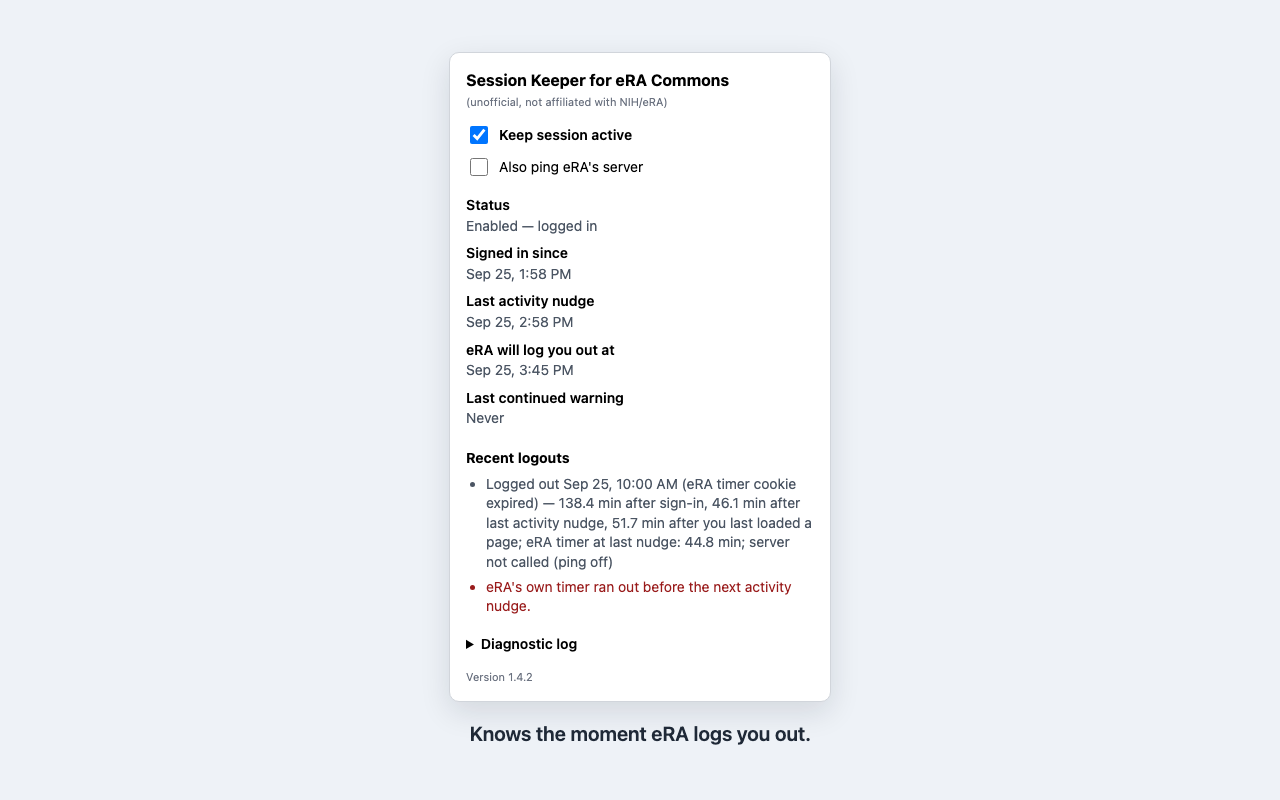
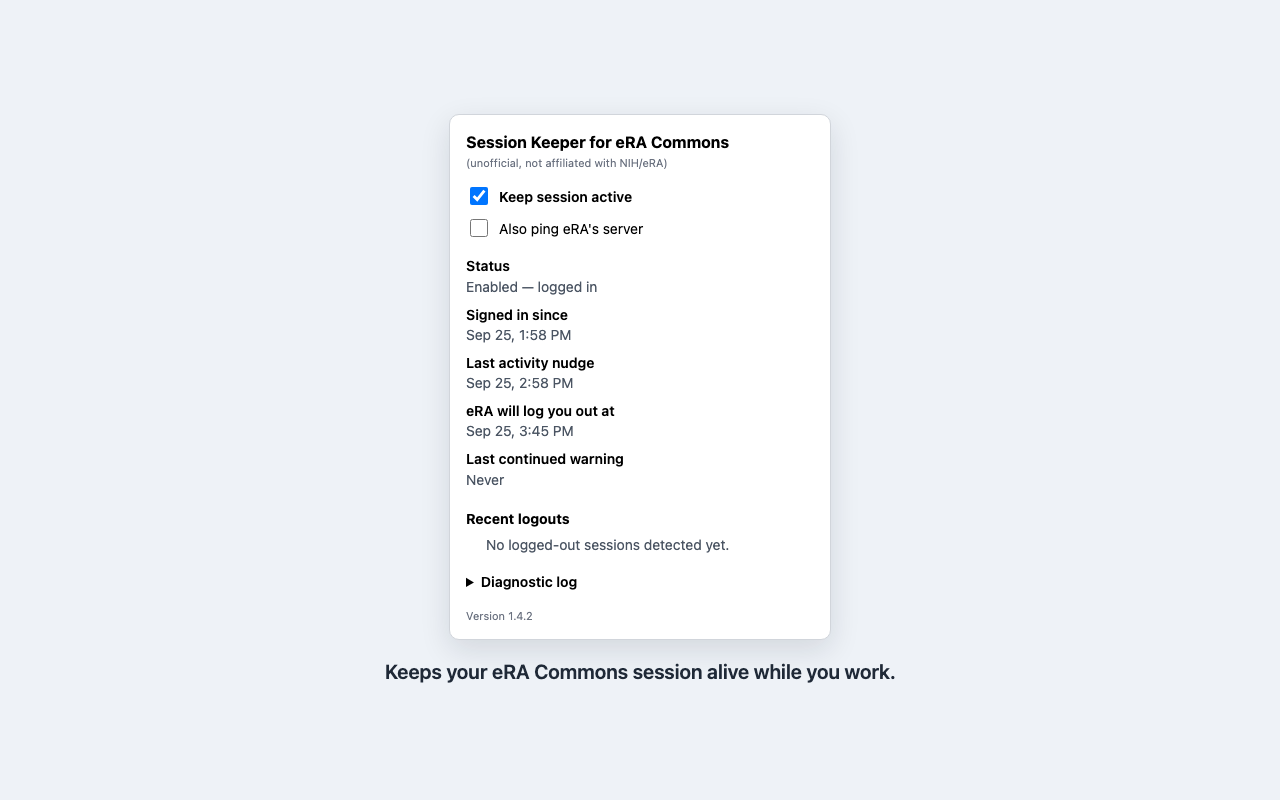
Add GitHub Pages site, fill in privacy policy contact, fix screenshot 1
- store/privacy-policy.html: replace maintainer/contact placeholders
- docs/privacy-policy.html: canonical hosted copy, identical to store's
- docs/index.html + docs/.nojekyll: GitHub Pages landing page
- store/listing.md, store/SUBMIT.md: point privacy policy URL at the
  GitHub Pages link, drop remaining placeholder text
- store/screenshot-harness.html: healthy sample state (no logout
  record) instead of a red logout warning
- store/screenshots/01-status.png, 02-diagnostic-log.png: re-rendered
  at 1280x800 against the healthy sample state
- README.md: link to the hosted privacy policy

Changed region(s): [[0.3125, 0.0938, 0.6875, 0.875], [0.375, 0.9062, 0.625, 0.9375]]

diff --git a/docs/index.html b/docs/index.html
@@ -1,0 +1,62 @@
+<!doctype html>
+<html lang="en">
+  <head>
+    <meta charset="utf-8">
+    <meta name="viewport" content="width=device-width, initial-scale=1">
+    <title>Session Keeper for eRA Commons (unofficial)</title>
+    <style>
+      :root { color-scheme: light; }
+      body {
+        margin: 0;
+        padding: 24px 16px 64px;
+        max-width: 680px;
+        margin-left: auto;
+        margin-right: auto;
+        font: 16px/1.55 -apple-system, BlinkMacSystemFont, "Segoe UI", Roboto, Helvetica, Arial, sans-serif;
+        color: #1f2937;
+        background: #ffffff;
+      }
+      h1 { font-size: 22px; line-height: 1.3; margin: 0 0 16px; }
+      p { margin: 0 0 12px; }
+      .notice {
+        background: #fef3c7;
+        border: 1px solid #f59e0b;
+        border-radius: 8px;
+        padding: 10px 14px;
+        font-size: 14px;
+        margin: 0 0 24px;
+      }
+      a { color: #2563eb; }
+      footer { margin-top: 40px; color: #6b7280; font-size: 13px; }
+      @media (max-width: 480px) {
+        body { padding: 16px 12px 48px; }
+        h1 { font-size: 20px; }
+      }
+    </style>
+  </head>
+  <body>
+    <h1>Session Keeper for eRA Commons (unofficial)</h1>
+
+    <p>
+      Session Keeper for eRA Commons is a small Chrome extension that keeps
+      your own, already-signed-in NIH eRA Commons session from timing out
+      while you're reading instead of clicking. It sends eRA's own page a
+      harmless activity signal every few minutes and presses eRA's own
+      "Continue" button if a timeout warning appears.
+    </p>
+
+    <p class="notice">
+      <strong>Not affiliated with NIH or eRA.</strong> This is an
+      independent, unofficial project.
+    </p>
+
+    <p>
+      Read the <a href="privacy-policy.html">privacy policy</a>.
+    </p>
+
+    <footer>
+      Session Keeper for eRA Commons (unofficial) — an independent project,
+      not affiliated with NIH or eRA.
+    </footer>
+  </body>
+</html>

diff --git a/store/screenshot-harness.html b/store/screenshot-harness.html
@@ -111,18 +111,7 @@
         eraLogoutAt: now + 45 * 60 * 1000,
         lastAutoClick: null,
         serverWarning: null,
-        logoutRecords: [
-          {
-            loggedOutDetectedAt: now - 5 * 60 * 60 * 1000,
-            reason: "eRA timer cookie expired",
-            minutesSinceSignIn: 138.4,
-            minutesSinceLastNudge: 46.1,
-            minutesSinceLastPageLoad: 51.7,
-            minutesLeftAtLastNudge: 44.8,
-            pingServer: false,
-            lastServerPing: "server not called (ping off)"
-          }
-        ],
+        logoutRecords: [],
         diagnosticLog: [
           { at: now - 20 * 60 * 1000, type: "page-load", path: "/commons/public/index.jsp", managerPresent: true, minsLeft: 45.0 },
           { at: now - 16 * 60 * 1000, type: "nudge", path: "/commonsplus/home.era", managerPresent: true, minsLeftBefore: 41.0, minsLeftAfter: 45.0, pingServer: false },

diff --git a/store/listing.md b/store/listing.md
@@ -2,8 +2,6 @@
 
 Everything below is written to be pasted directly into the fields of the
 Chrome Web Store developer dashboard (chrome.google.com/webstore/devconsole).
-Nothing here needs editing except the privacy policy URL placeholder near
-the bottom, once that page is hosted somewhere.
 
 ## Item name
 
@@ -195,19 +193,9 @@ data is read, stored, or handled anywhere in the extension.
 ## Privacy policy URL
 
 ```
-<PASTE THE HOSTED URL OF store/privacy-policy.html HERE>
+https://jgassens.github.io/era-commons-keepalive/privacy-policy.html
 ```
 
-`store/privacy-policy.html` is a ready-to-host, self-contained page.
-Two easy ways to put it at a public URL:
-
-1. **GitHub Pages** — push this repo (or just that one file) to a GitHub
-   repository, turn on Pages for it in the repo's Settings → Pages, and
-   use the `https://<username>.github.io/<repo>/privacy-policy.html` URL
-   it gives you.
-2. **Google Sites** — create a free Google Site, add the text from
-   `store/privacy-policy.html` as a page (Google Sites' editor accepts
-   embedded HTML/plain text), publish it, and use that page's URL.
-
-Paste whichever URL you end up with into the dashboard's **Privacy policy**
-field and into the placeholder above for your own records.
+This is the GitHub Pages URL for `docs/privacy-policy.html`, hosted from
+this repository's `main` branch `/docs` folder. Paste this URL into the
+dashboard's **Privacy policy** field.

diff --git a/store/SUBMIT.md b/store/SUBMIT.md
@@ -34,9 +34,9 @@ for you in `store/listing.md`.
    - Language
 
 6. **Set up the Privacy tab:**
-   - Host `store/privacy-policy.html` somewhere public (GitHub Pages or a
-     Google Site both work — `store/listing.md` has step-by-step notes),
-     then paste that page's URL into the **Privacy policy URL** field.
+   - Paste `https://jgassens.github.io/era-commons-keepalive/privacy-policy.html`
+     (the GitHub Pages URL for `docs/privacy-policy.html`) into the
+     **Privacy policy URL** field.
    - Under **Permission justifications**, paste in the paragraph for each
      permission from `store/listing.md` (storage, alarms, notifications,
      scripting, cookies, and the `https://*.era.nih.gov/*` host permission).

diff --git a/README.md b/README.md
@@ -10,6 +10,8 @@ When eRA logs you out — its own timer ran out, or you pressed **Logout** — e
 
 It never reads, saves, fills, or sends passwords, two-factor codes, or any other credentials. It never tries to log you in.
 
+Privacy policy: https://jgassens.github.io/era-commons-keepalive/privacy-policy.html
+
 ## Install it in Chrome
 
 1. Download or open this extension folder on your computer.
